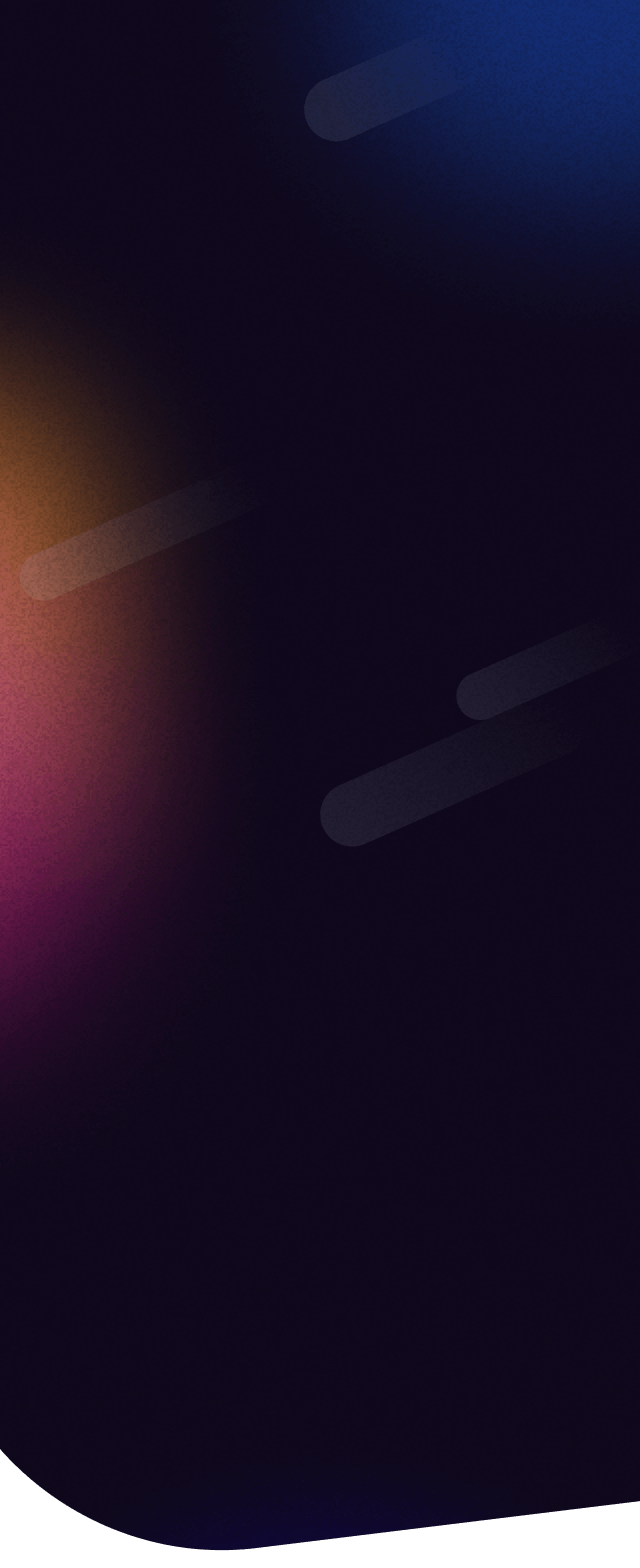
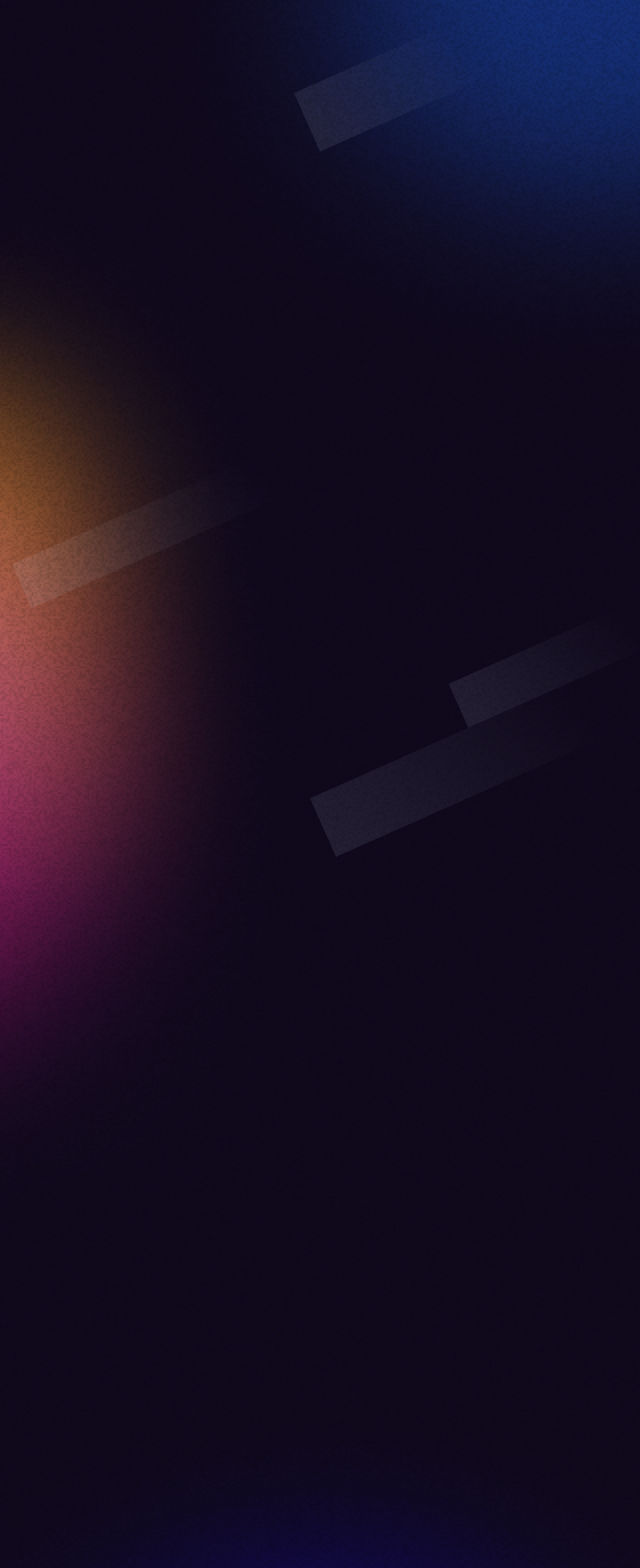
Se modifican las imagenes del hero mobile y menu mobile

Changed region(s): [[0.0, 0.9062, 1.0, 1.0]]

diff --git a/src/assets/css/_page__home--hero.scss b/src/assets/css/_page__home--hero.scss
@@ -240,7 +240,7 @@
     }
 
     @media only screen and (max-width: 500px) {
-        background: url(./images/homepage/hero/hero--mobile.png) left bottom
+        background: url(./images/homepage/hero/hero--mobile.png) center bottom
             no-repeat;
         background-size: 100%;
     }
